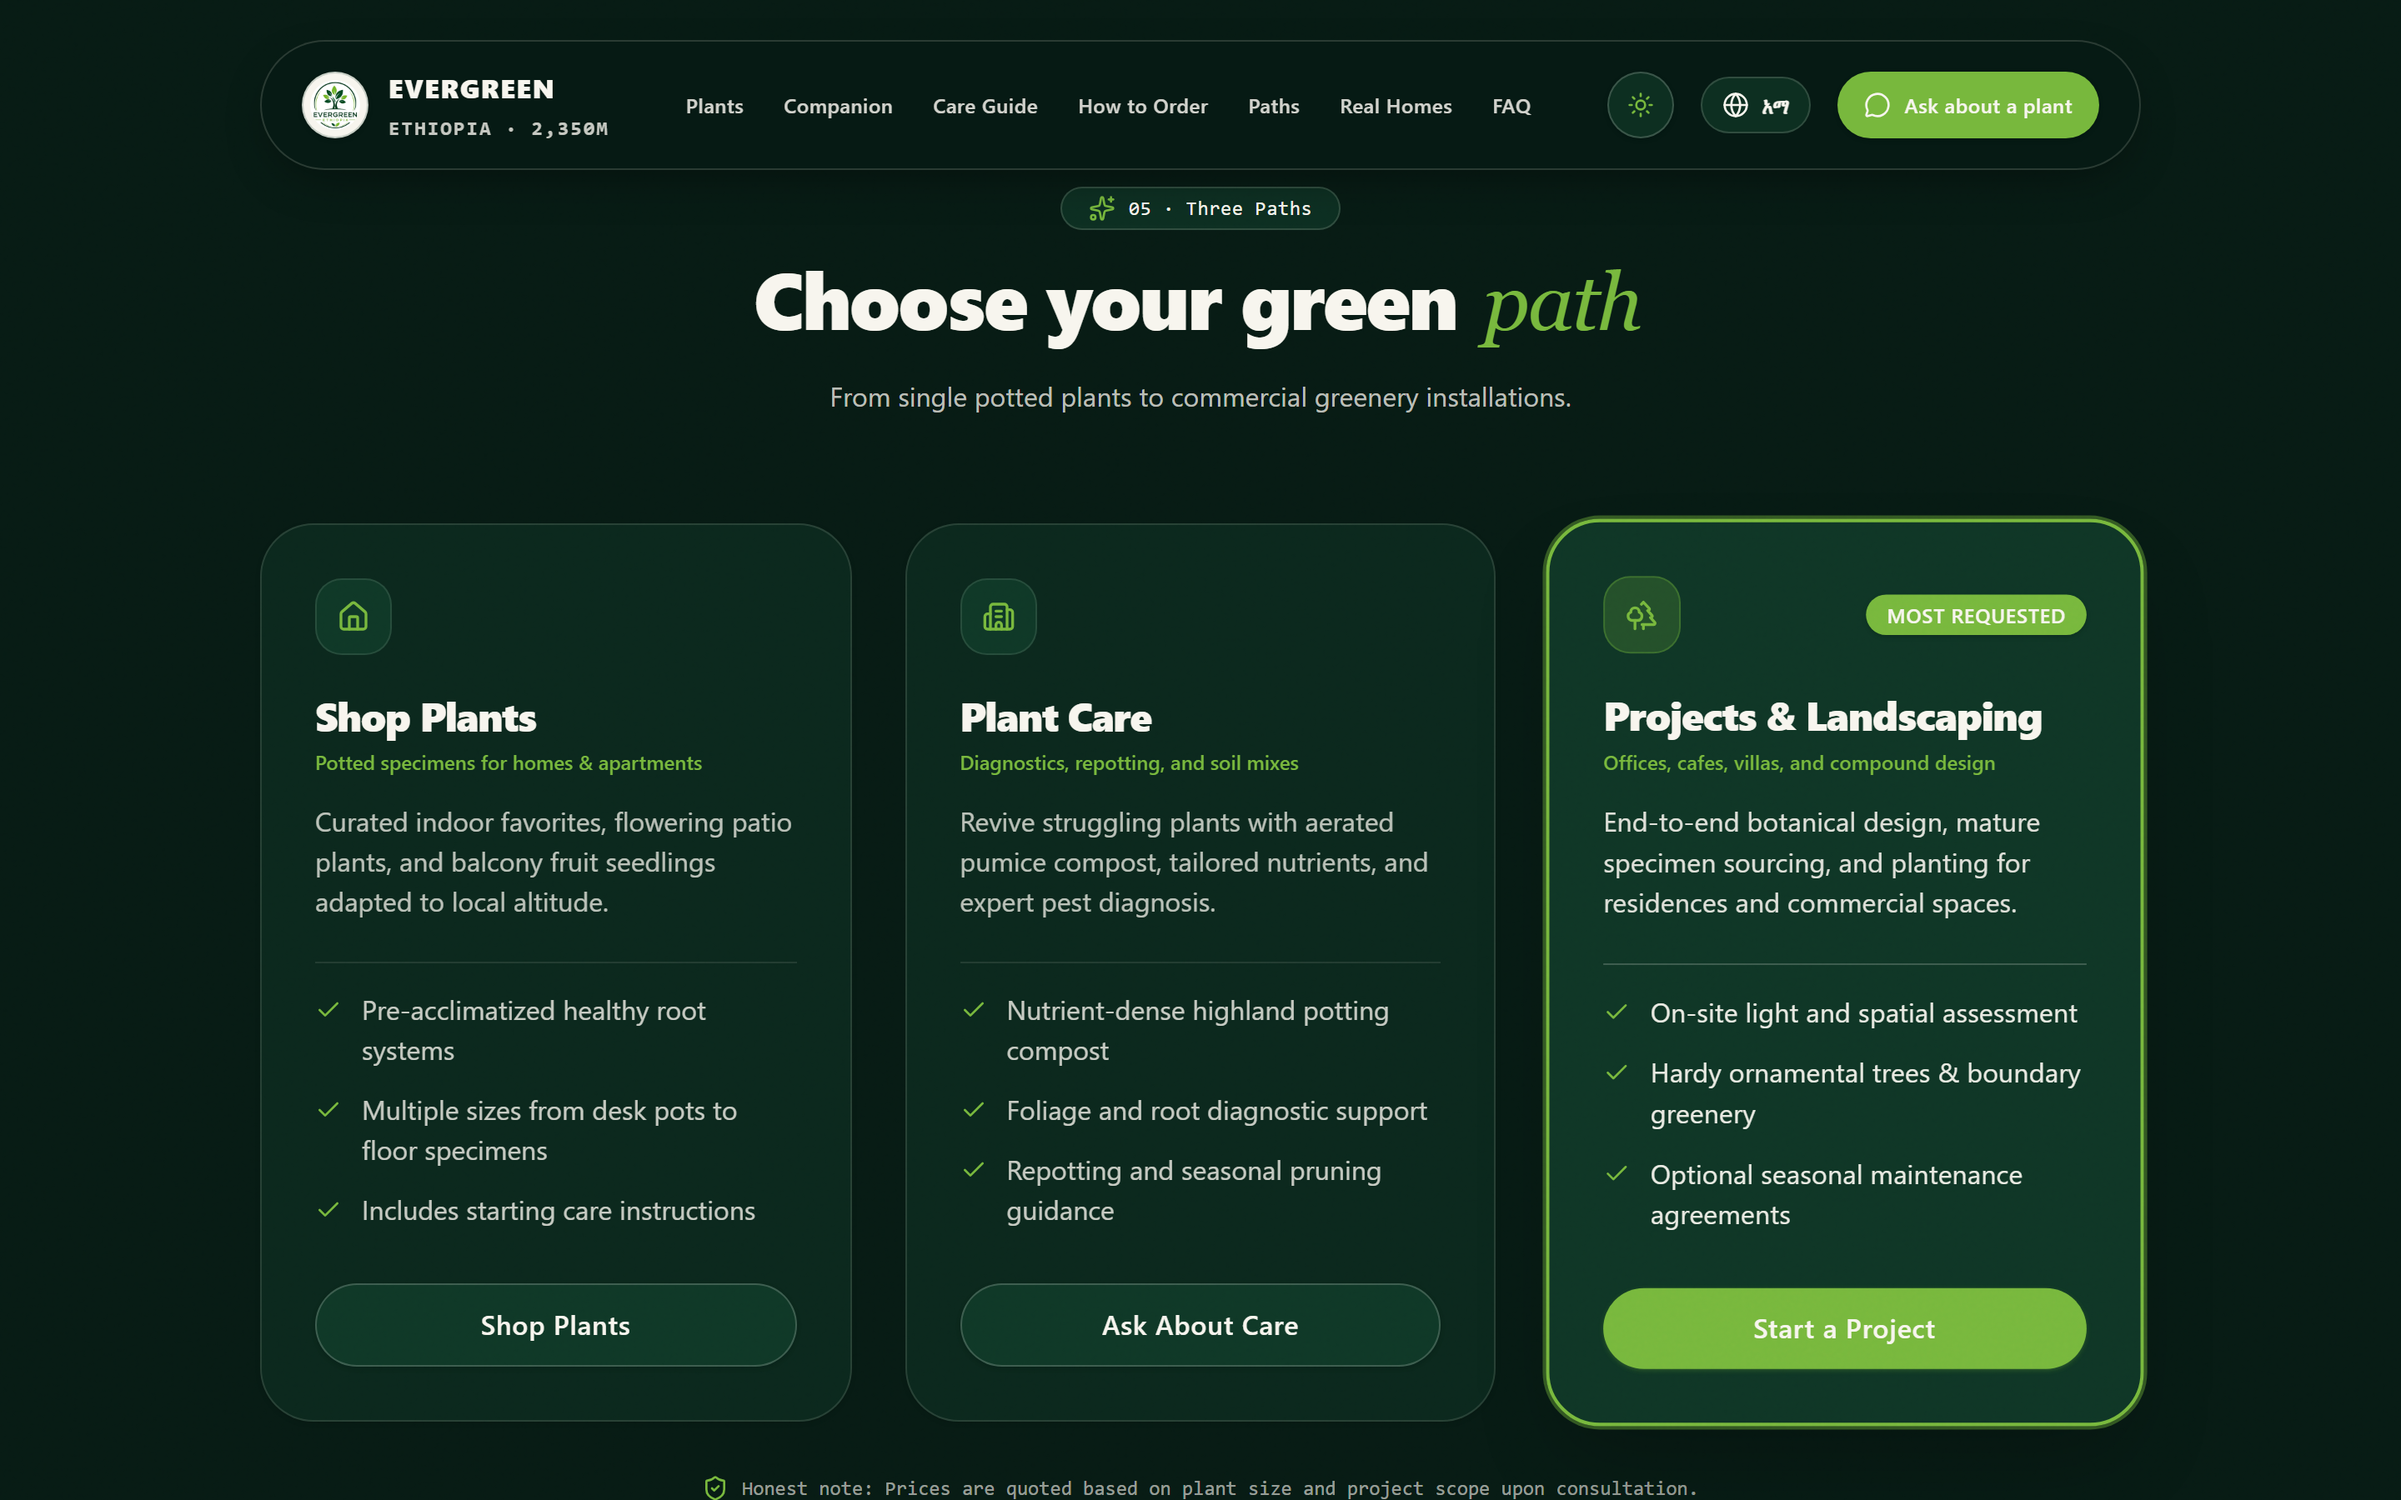
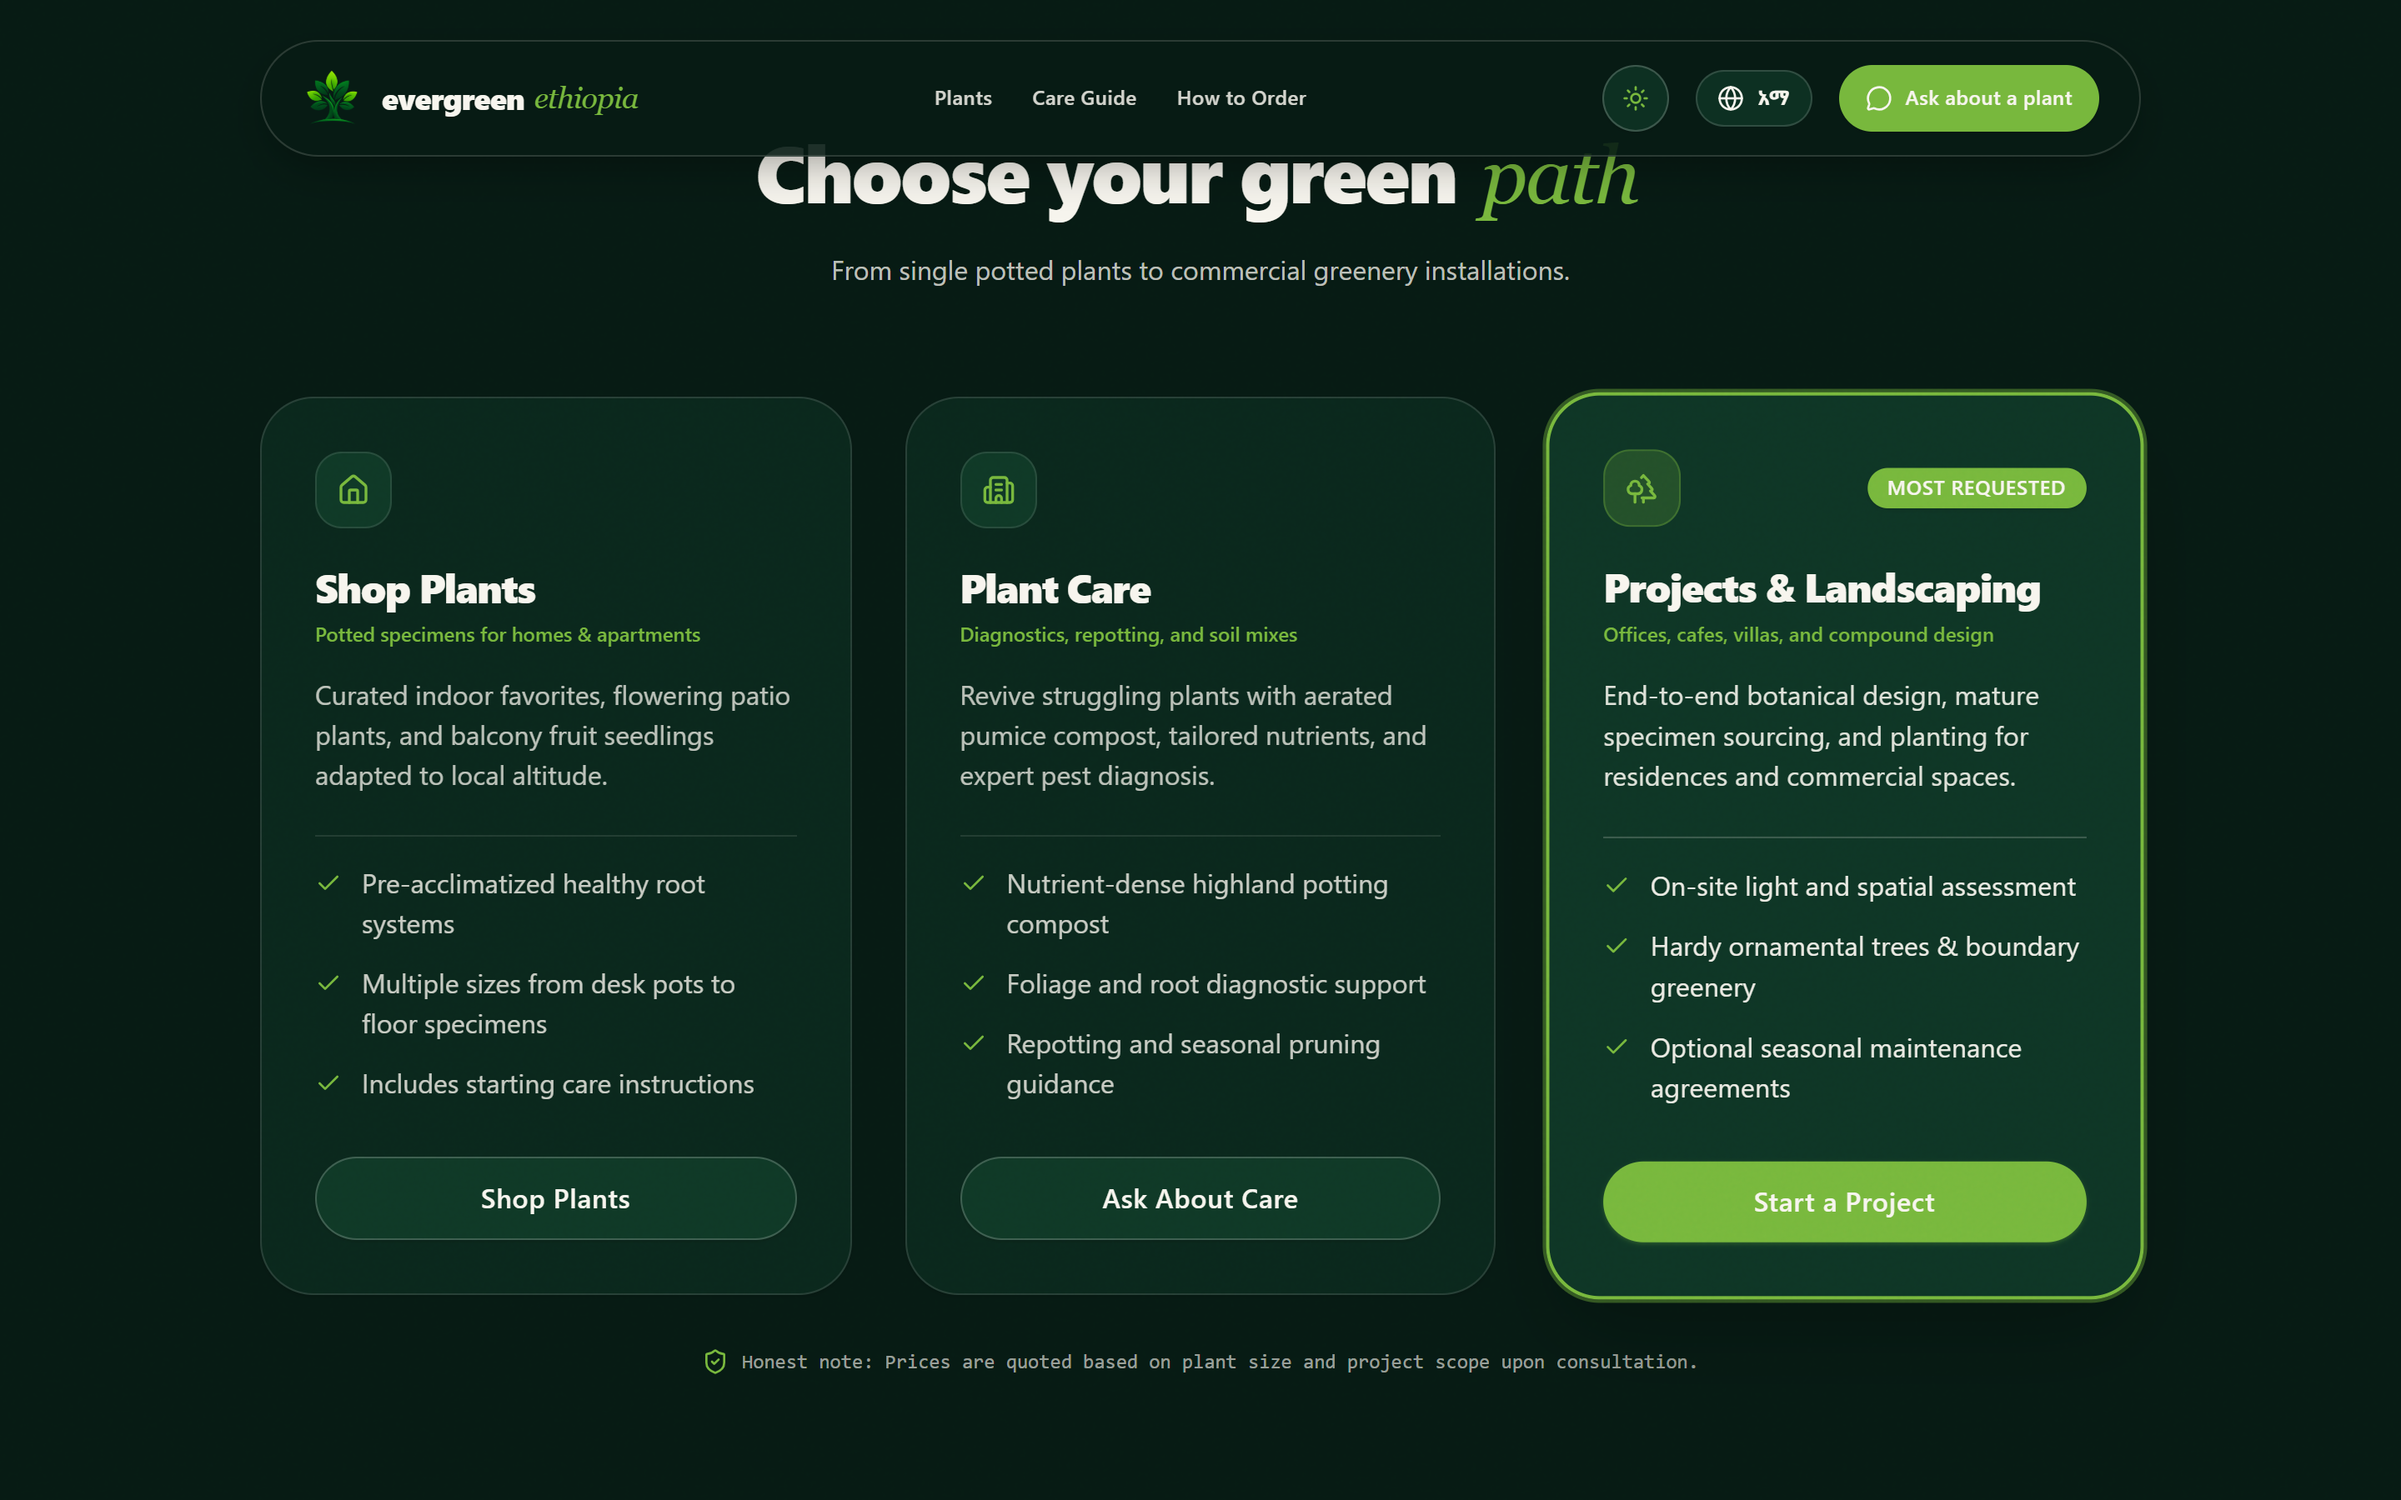
docs(readme): update features, architecture and refresh 24 screenshots via playwright

diff --git a/scripts/capture-all-screenshots.js b/scripts/capture-all-screenshots.js
@@ -1,14 +1,85 @@
 const { chromium } = require('playwright');
 const path = require('path');
 const fs = require('fs');
+const http = require('http');
+const { spawn, exec } = require('child_process');
+
+function killProcessTree(pid) {
+  if (!pid) return;
+  if (process.platform === 'win32') {
+    try {
+      exec(`taskkill /pid ${pid} /T /F`);
+    } catch (_) {}
+  } else {
+    try {
+      process.kill(-pid);
+    } catch (_) {
+      try { process.kill(pid); } catch (__) {}
+    }
+  }
+}
+
+function isServerRunning(port = 3000) {
+  return new Promise((resolve) => {
+    const req = http.get(`http://localhost:${port}`, (res) => {
+      resolve(true);
+    });
+    req.on('error', () => resolve(false));
+    req.setTimeout(1000, () => {
+      req.destroy();
+      resolve(false);
+    });
+  });
+}
+
+function waitForServer(port = 3000, maxAttempts = 30) {
+  return new Promise((resolve, reject) => {
+    let attempts = 0;
+    const interval = setInterval(async () => {
+      attempts++;
+      const running = await isServerRunning(port);
+      if (running) {
+        clearInterval(interval);
+        resolve();
+      } else if (attempts >= maxAttempts) {
+        clearInterval(interval);
+        reject(new Error(`Server failed to start on port ${port} after ${maxAttempts} attempts`));
+      }
+    }, 500);
+  });
+}
 
 async function captureAllScreenshots() {
-  const outputDir = path.join(__dirname, '..', 'screenshots');
+  const rootDir = path.join(__dirname, '..');
+  const outputDir = path.join(rootDir, 'screenshots');
   if (!fs.existsSync(outputDir)) {
     fs.mkdirSync(outputDir, { recursive: true });
   }
 
-  const browser = await chromium.launch({ headless: true });
+  let serverProcess = null;
+  let browser = null;
+  try {
+    const alreadyRunning = await isServerRunning(3000);
+    if (!alreadyRunning) {
+      console.log('Starting local Next.js production server for screenshots on port 3000...');
+      const nextCmd = process.platform === 'win32' ? 'npx.cmd' : 'npx';
+      serverProcess = spawn(nextCmd, ['next', 'start', '-p', '3000'], {
+        cwd: rootDir,
+        stdio: 'inherit',
+        shell: true,
+      });
+      await waitForServer(3000);
+      console.log('Next.js server is ready on http://localhost:3000\n');
+    } else {
+      console.log('Using existing Next.js server on http://localhost:3000\n');
+    }
+
+    try {
+      browser = await chromium.launch({ channel: 'chrome', headless: true });
+    } catch (err) {
+      console.log('Falling back to default chromium launcher...');
+      browser = await chromium.launch({ headless: true });
+    }
 
   const hideDevStyles = async (page) => {
     await page.addStyleTag({
@@ -394,10 +465,20 @@ async function captureAllScreenshots() {
     console.log('✓ Captured: 08_mobile_footer.png');
   }
 
-  await mobileContext.close();
-  await browser.close();
+    await mobileContext.close();
+    await browser.close();
+    browser = null;
 
-  console.log('\n🎉 ALL SCREENSHOTS SUCCESSFULLY CAPTURED AND STORED IN screenshots/ DIRECTORY!');
+    console.log('\n🎉 ALL SCREENSHOTS SUCCESSFULLY CAPTURED AND STORED IN screenshots/ DIRECTORY!');
+  } finally {
+    if (browser) {
+      try { await browser.close(); } catch (_) {}
+    }
+    if (serverProcess && serverProcess.pid) {
+      console.log('Shutting down Next.js screenshot server...');
+      killProcessTree(serverProcess.pid);
+    }
+  }
 }
 
 captureAllScreenshots().catch((err) => {

diff --git a/README.md b/README.md
@@ -4,10 +4,11 @@
 
 ### Botanical Nursery & Highland Acclimatized Plants in Addis Ababa & Bishoftu
 
-[![Next.js](https://img.shields.io/badge/Next.js-16.4-000000?style=for-the-badge&logo=nextdotjs&logoColor=white)](https://nextjs.org/)
+[![Next.js](https://img.shields.io/badge/Next.js-16.4.2-000000?style=for-the-badge&logo=nextdotjs&logoColor=white)](https://nextjs.org/)
 [![React](https://img.shields.io/badge/React-19.3-20232A?style=for-the-badge&logo=react&logoColor=61DAFB)](https://react.dev/)
 [![TypeScript](https://img.shields.io/badge/TypeScript-5.0-3178C6?style=for-the-badge&logo=typescript&logoColor=white)](https://www.typescriptlang.org/)
 [![Tailwind CSS](https://img.shields.io/badge/Tailwind_CSS-v4-38B2AC?style=for-the-badge&logo=tailwind-css&logoColor=white)](https://tailwindcss.com/)
+[![Playwright](https://img.shields.io/badge/Playwright-Automated_Suite-2EAD33?style=for-the-badge&logo=playwright&logoColor=white)](https://playwright.dev/)
 [![Prisma](https://img.shields.io/badge/Prisma-ORM-2D3748?style=for-the-badge&logo=prisma&logoColor=white)](https://www.prisma.io/)
 [![Neon Postgres](https://img.shields.io/badge/Neon-PostgreSQL-00E599?style=for-the-badge&logo=postgresql&logoColor=white)](https://neon.tech/)
 [![Live Production](https://img.shields.io/badge/Live_Site-evergreen--ethiopia.vercel.app-2F9E66?style=for-the-badge&logo=vercel&logoColor=white)](https://evergreen-ethiopia.vercel.app/)
@@ -82,6 +83,17 @@ The site is built with an **inquiry-first architecture**: rather than enforcing 
 
 ## 🌟 Key Features
 
+- **⚡ Performance & Motion Engineering**
+  - **rAF-Throttled Scroll Handlers**: Navigation bars (`FloatingNav`, `StickyMobileBar`) use `requestAnimationFrame` ticking to decouple DOM state updates from scroll events, preventing frame drops.
+  - **Zero Layout Thrashing**: Removed scroll-linked DOM style mutations in favor of native CSS composited properties.
+  - **Hardware-Accelerated Marquee**: Testimonial ticker uses `translate3d(0, 0, 0)` and `will-change: transform` for smooth 60fps infinite scrolling.
+  - **Targeted CSS Transitions**: Scoped to specific properties (`transition-colors duration-200`, `transition-[box-shadow,border-color]`), eliminating full-tree style recalculations.
+
+- **🌿 Unified Editorial Brand System**
+  - Responsive **`evergreen ethiopia`** dual-typeface wordmark (`evergreen` in bold sans paired with an italic serif `ethiopia` accent) across all navbars, 404 pages, catalog header, and specimen detail page.
+  - Clean, unpolluted plant specimen cards without rating star clutter for an honest, botanical nursery presentation.
+  - Mobile specimen hierarchy on `/plants/[slug]` with explicit order-1 featured plant plinth and touch targets strictly >= 44px for WCAG compliance.
+
 - **🌙 Immersive Botanical Dark & Light Modes**
   - **Forest Deep (`#071B14`)** dark palette inspired by lush Ethiopian cloud forests, accented with glowing leaf emeralds (`#2F9E66`) and soft ivory typography.
   - Organic **Ivory (`#F7F5EE`)** light theme with calibrated daylight mist overlays for soft, glare-free daytime browsing.
@@ -117,6 +129,7 @@ The site is built with an **inquiry-first architecture**: rather than enforcing 
 | **Framework** | [Next.js 16 (App Router)](https://nextjs.org/) |
 | **Frontend UI** | [React 19](https://react.dev/) + [TypeScript](https://www.typescriptlang.org/) |
 | **Styling** | [Tailwind CSS v4](https://tailwindcss.com/) + PostCSS |
+| **Testing & Automation** | [Playwright](https://playwright.dev/) (24-view automated visual capture & regression suite) |
 | **Icons & Visuals** | [Lucide React](https://lucide.dev/) |
 | **Animations** | [GSAP 3 (GreenSock)](https://gsap.com/) |
 | **Database ORM** | [Prisma](https://www.prisma.io/) with PostgreSQL schema |
@@ -157,8 +170,11 @@ evergreen/
 │   ├── detail-light.png      # Monstera specimen detail page (Light Mode)
 │   └── split-intro-light.png # Philosophy section (Light Mode)
 ├── scripts/
-│   ├── capture-all-screenshots.js # Automated Playwright screenshot suite
-│   └── fourpx_audit.js       # Four-Pixel Rule compliance validator
+│   ├── capture-all-screenshots.js # Automated Playwright 24-screenshot suite with auto-server lifecycle
+│   ├── capture-detail-page.mjs   # Specimen detail viewport & options capture
+│   ├── capture-navbars.mjs       # Cross-viewport navbar and brand mark capture
+│   ├── verify-main-fixes.mjs     # Automated UX & regression verification suite
+│   └── fourpx_audit.js           # Four-Pixel Rule compliance validator
 ├── src/
 │   ├── app/
 │   │   ├── globals.css       # Tailwind v4 configuration, theme variables & utilities
@@ -258,11 +274,21 @@ npm run dev
 
 Open [http://localhost:3000](http://localhost:3000) in your browser to view the application.
 
-### 6. Automated Screenshots
+### 6. Automated Visual Screenshots & Testing
 
-To capture fresh high-resolution screenshots across all viewports and modes:
+The project includes an automated visual testing and screenshot capture suite powered by Playwright. It automatically detects or manages the local production server lifecycle, launches headless Chrome across 1440px desktop and 390px mobile viewports, and captures 24 high-resolution screenshots covering:
+- **Desktop Landing** (Hero, Frosted Scrolled Nav, Philosophy, Care Accordions, Journey, Paths, Inquiry Sheet Validation/Success, Footer) in both Dark and Light botanical modes
+- **Catalog Page** (`/plants`) in Dark and Light modes
+- **Specimen Detail Page** (`/plants/monstera`) in Dark and Light modes
+- **Mobile Viewports** (Hero, Nav Drawer, Features, Philosophy, Journey, Consultation, Inquiry Sheet, Footer)
+
+Run the suite anytime:
 
 ```bash
+# Build production bundle first
+npm run build
+
+# Capture all screenshots (stores into screenshots/ directory)
 node scripts/capture-all-screenshots.js
 ```
 
